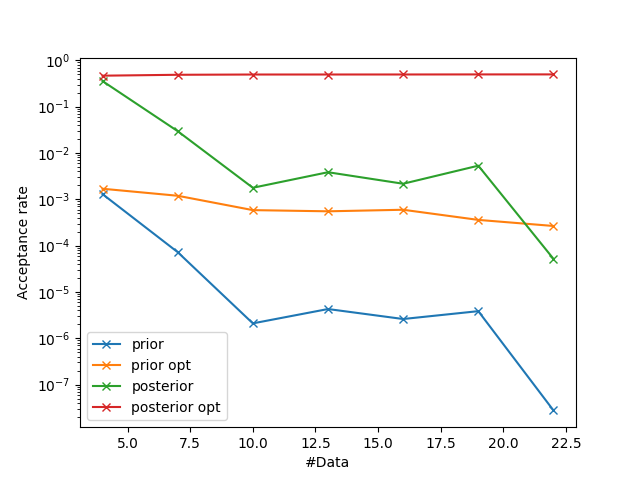
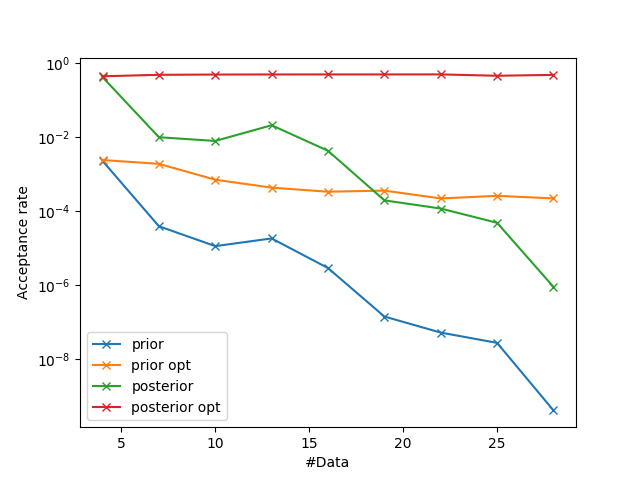
fix hh

diff --git a/study_abc_noise/test/test_hh.py b/study_abc_noise/test/test_hh.py
@@ -4,19 +4,20 @@ import matplotlib.pyplot as plt
 # ModelVars.install_model()
 mv = ModelVars()
 gt = {"dc": 20, "membrane_dim": 10}
-fig, axes = plt.subplots(nrows=4, sharex=True)
+fig, axes = plt.subplots(nrows=2, sharex=True)
 fig.set_size_inches((12, 8))
 for _ in range(1):
     obs = mv.get_model()(gt)
-    obs.plot(y="K", color="C1", ax=axes[0])
-    obs.plot(y="Na", color="C0", ax=axes[1])
+    axes[0].plot(range(0, len(obs['K'])), obs["K"], 'x-')
+    #obs.plot(y="Na", color="C0", ax=axes[1])
     obs = mv.get_model_noisy()(gt)
-    obs.plot(y="K", color="C3", ax=axes[2], label="K noisy")
-    obs.plot(y="Na", color="C2", ax=axes[3], label="Na noisy")
+    axes[1].plot(range(0, len(obs['K'])), obs['K'], 'x-')
+    #obs.plot(y="K", color="C3", ax=axes[2], label="K noisy")
+    #obs.plot(y="Na", color="C2", ax=axes[3], label="Na noisy")
 for ax in axes:
     ax.legend().set_visible(False)
 axes[0].set_title("K")
 axes[0].set_ylabel("K")
-axes[1].set_title("Na")
-axes[1].set_ylabel("Na")
+#axes[1].set_title("Na")
+#axes[1].set_ylabel("Na")
 plt.show()

diff --git a/study_abc_noise/model/hodgkin_huxley.py b/study_abc_noise/model/hodgkin_huxley.py
@@ -19,9 +19,13 @@ class HodgkinHuxleyModelVars(ModelVars):
         if p_true is None:
             p_true = {'dc': 20, 'membrane_dim': 10}
         super().__init__(p_true = p_true, n_acc=n_acc)
-        self.noise_std = 0.000  # 0.005
+        self.noise_std = 0.05
         self.limits = {'dc': (2, 30), 'membrane_dim': (1, 12)}
-        self.n_t = 10001
+        self.time_steps = 10001
+        self.n_t = 50
+    
+    def get_obs_times(self):
+        return [int(i) for i in np.linspace(0, self.time_steps - 1, self.n_t)]
 
     def get_id(self):
         return f"hodgkin_huxley_{self.noise_std}"
@@ -45,7 +49,9 @@ class HodgkinHuxleyModelVars(ModelVars):
 
     def get_model(self):
         def model(p):
-            return simulate(**p)
+            val = simulate(**p)
+            ret = {'K': val.reset_index()['K'][self.get_obs_times()]}
+            return ret
         return model
 
     def get_model_noisy(self):
